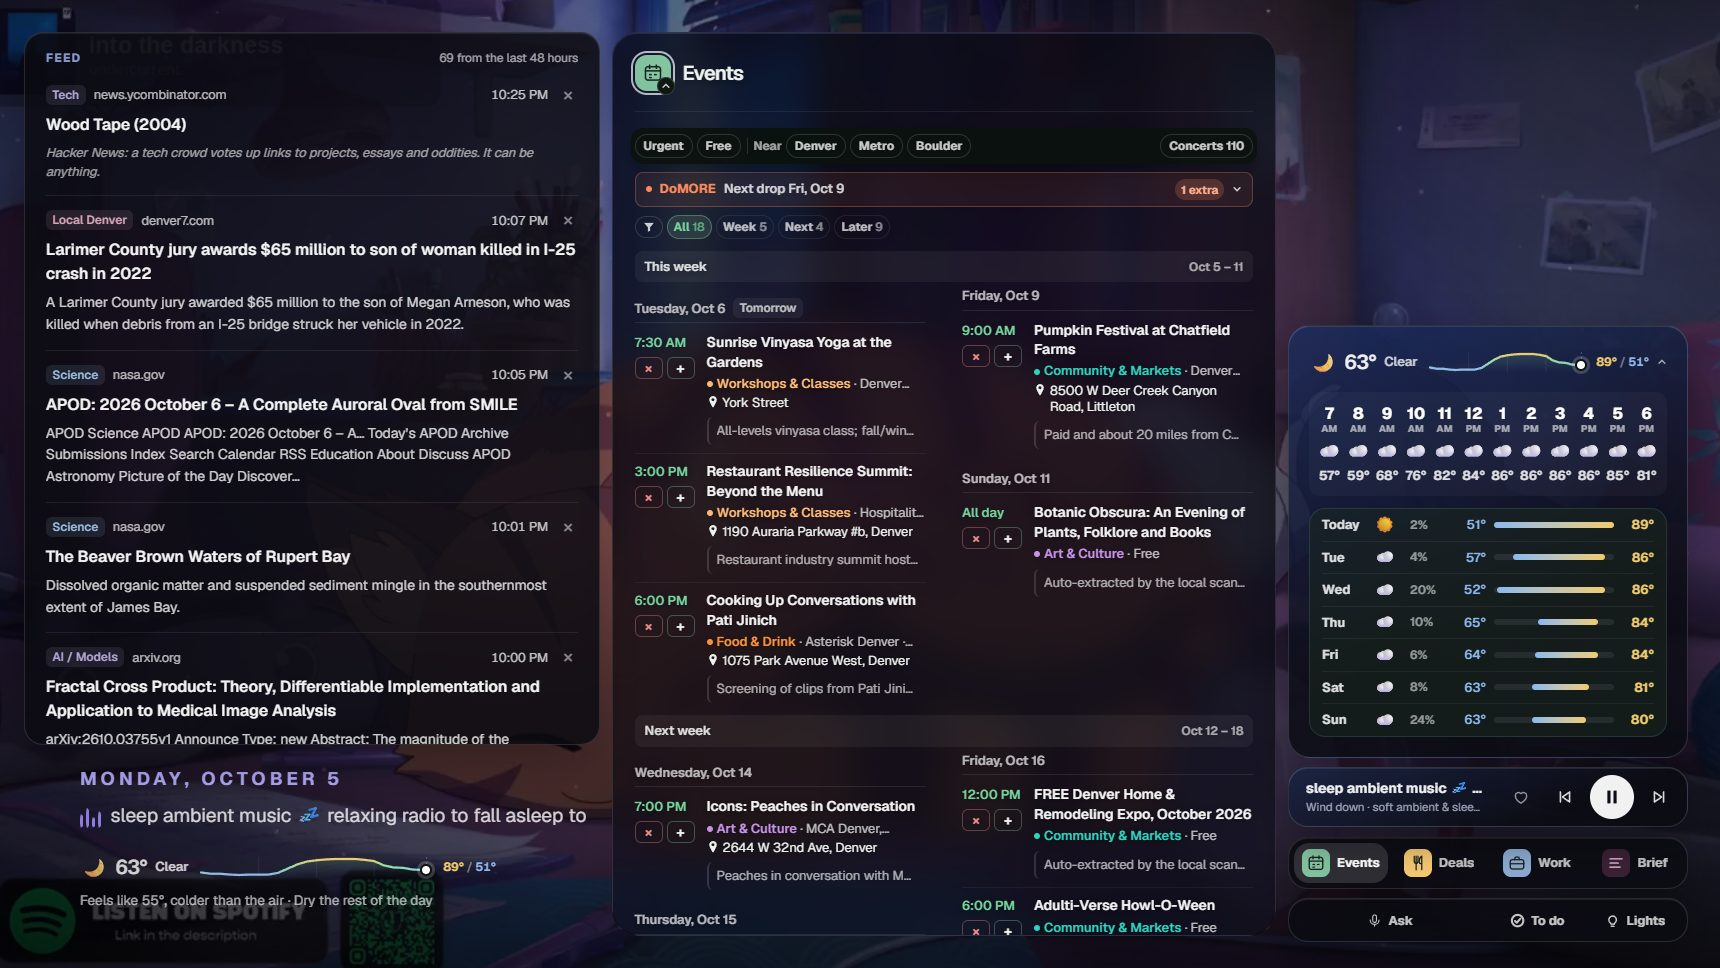
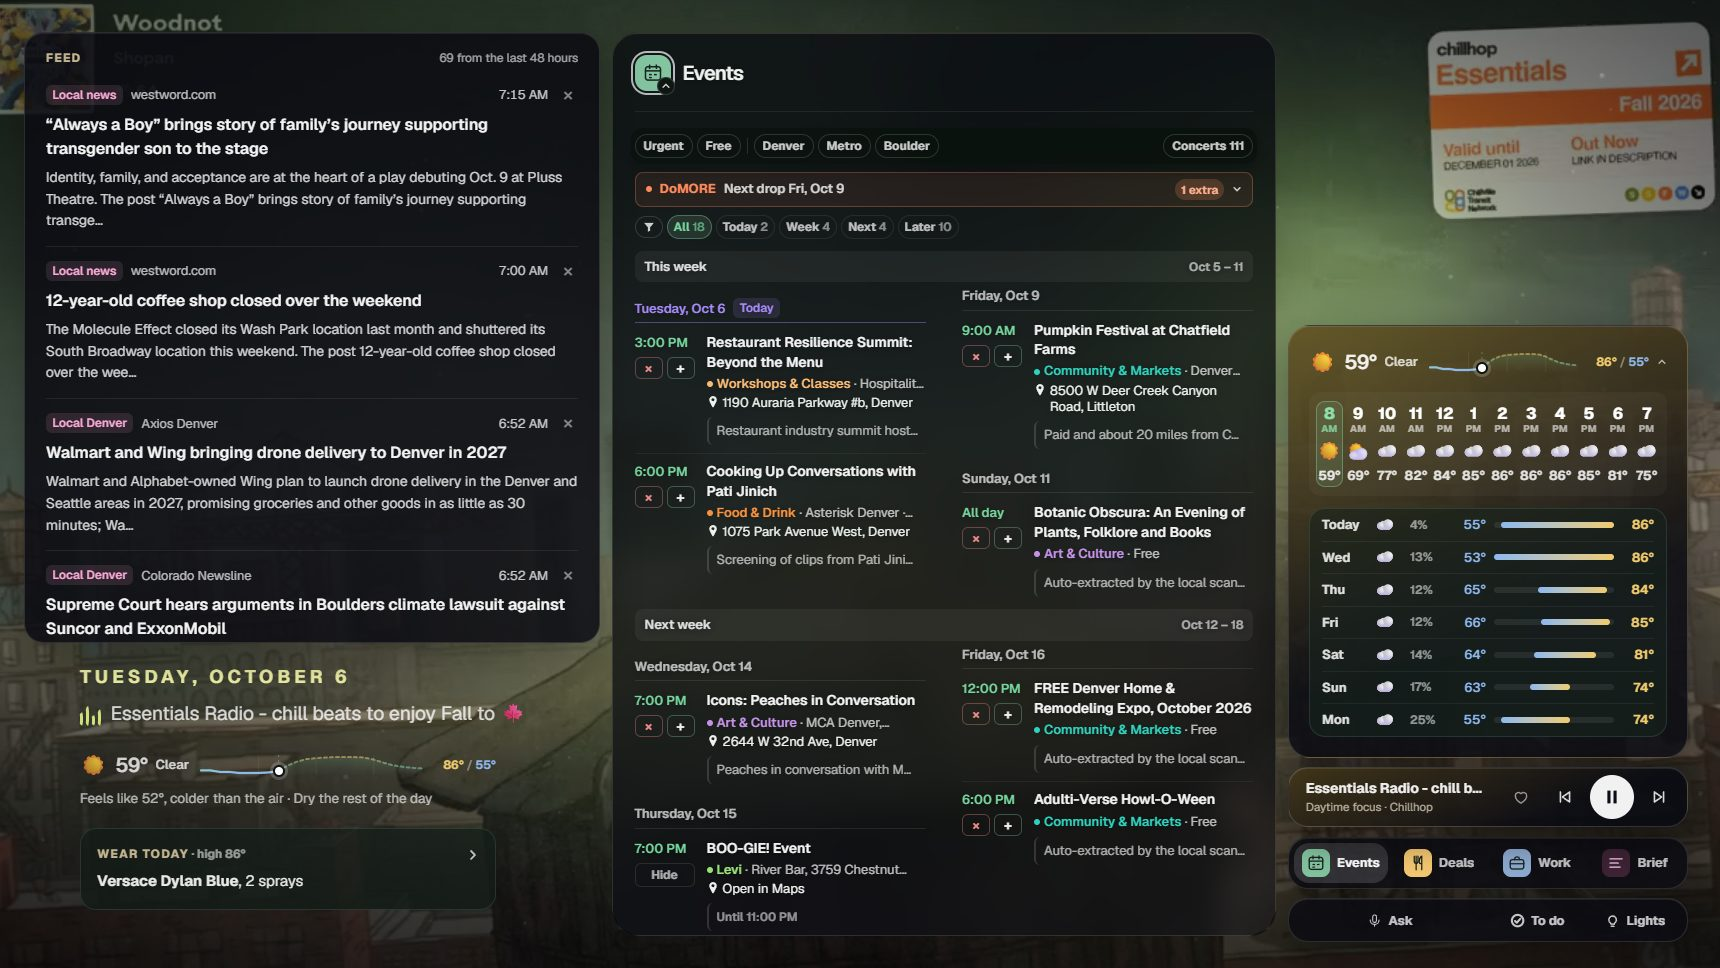
README: catch up with the app (e22a0d4), 9 pictures

diff --git a/README.md b/README.md
@@ -31,7 +31,7 @@ The canonical copy runs on Levi's PC at `:3000`. Phones reach that copy over Tai
 
 ## What it looks like
 
-Captured from the live dashboard on 2026-10-05, 1720 px wide on the PC and 390 px on the phone.
+Captured from the live dashboard on 2026-10-05 and 2026-10-06, 1720 px wide on the PC and 390 px on the phone.
 
 **The wallpaper** (F). The music video fills the screen. The date, the weather and what's playing sit on the left;
 on the right is one column: the Now card, with the thought on top of it when it has something to say, then the music
